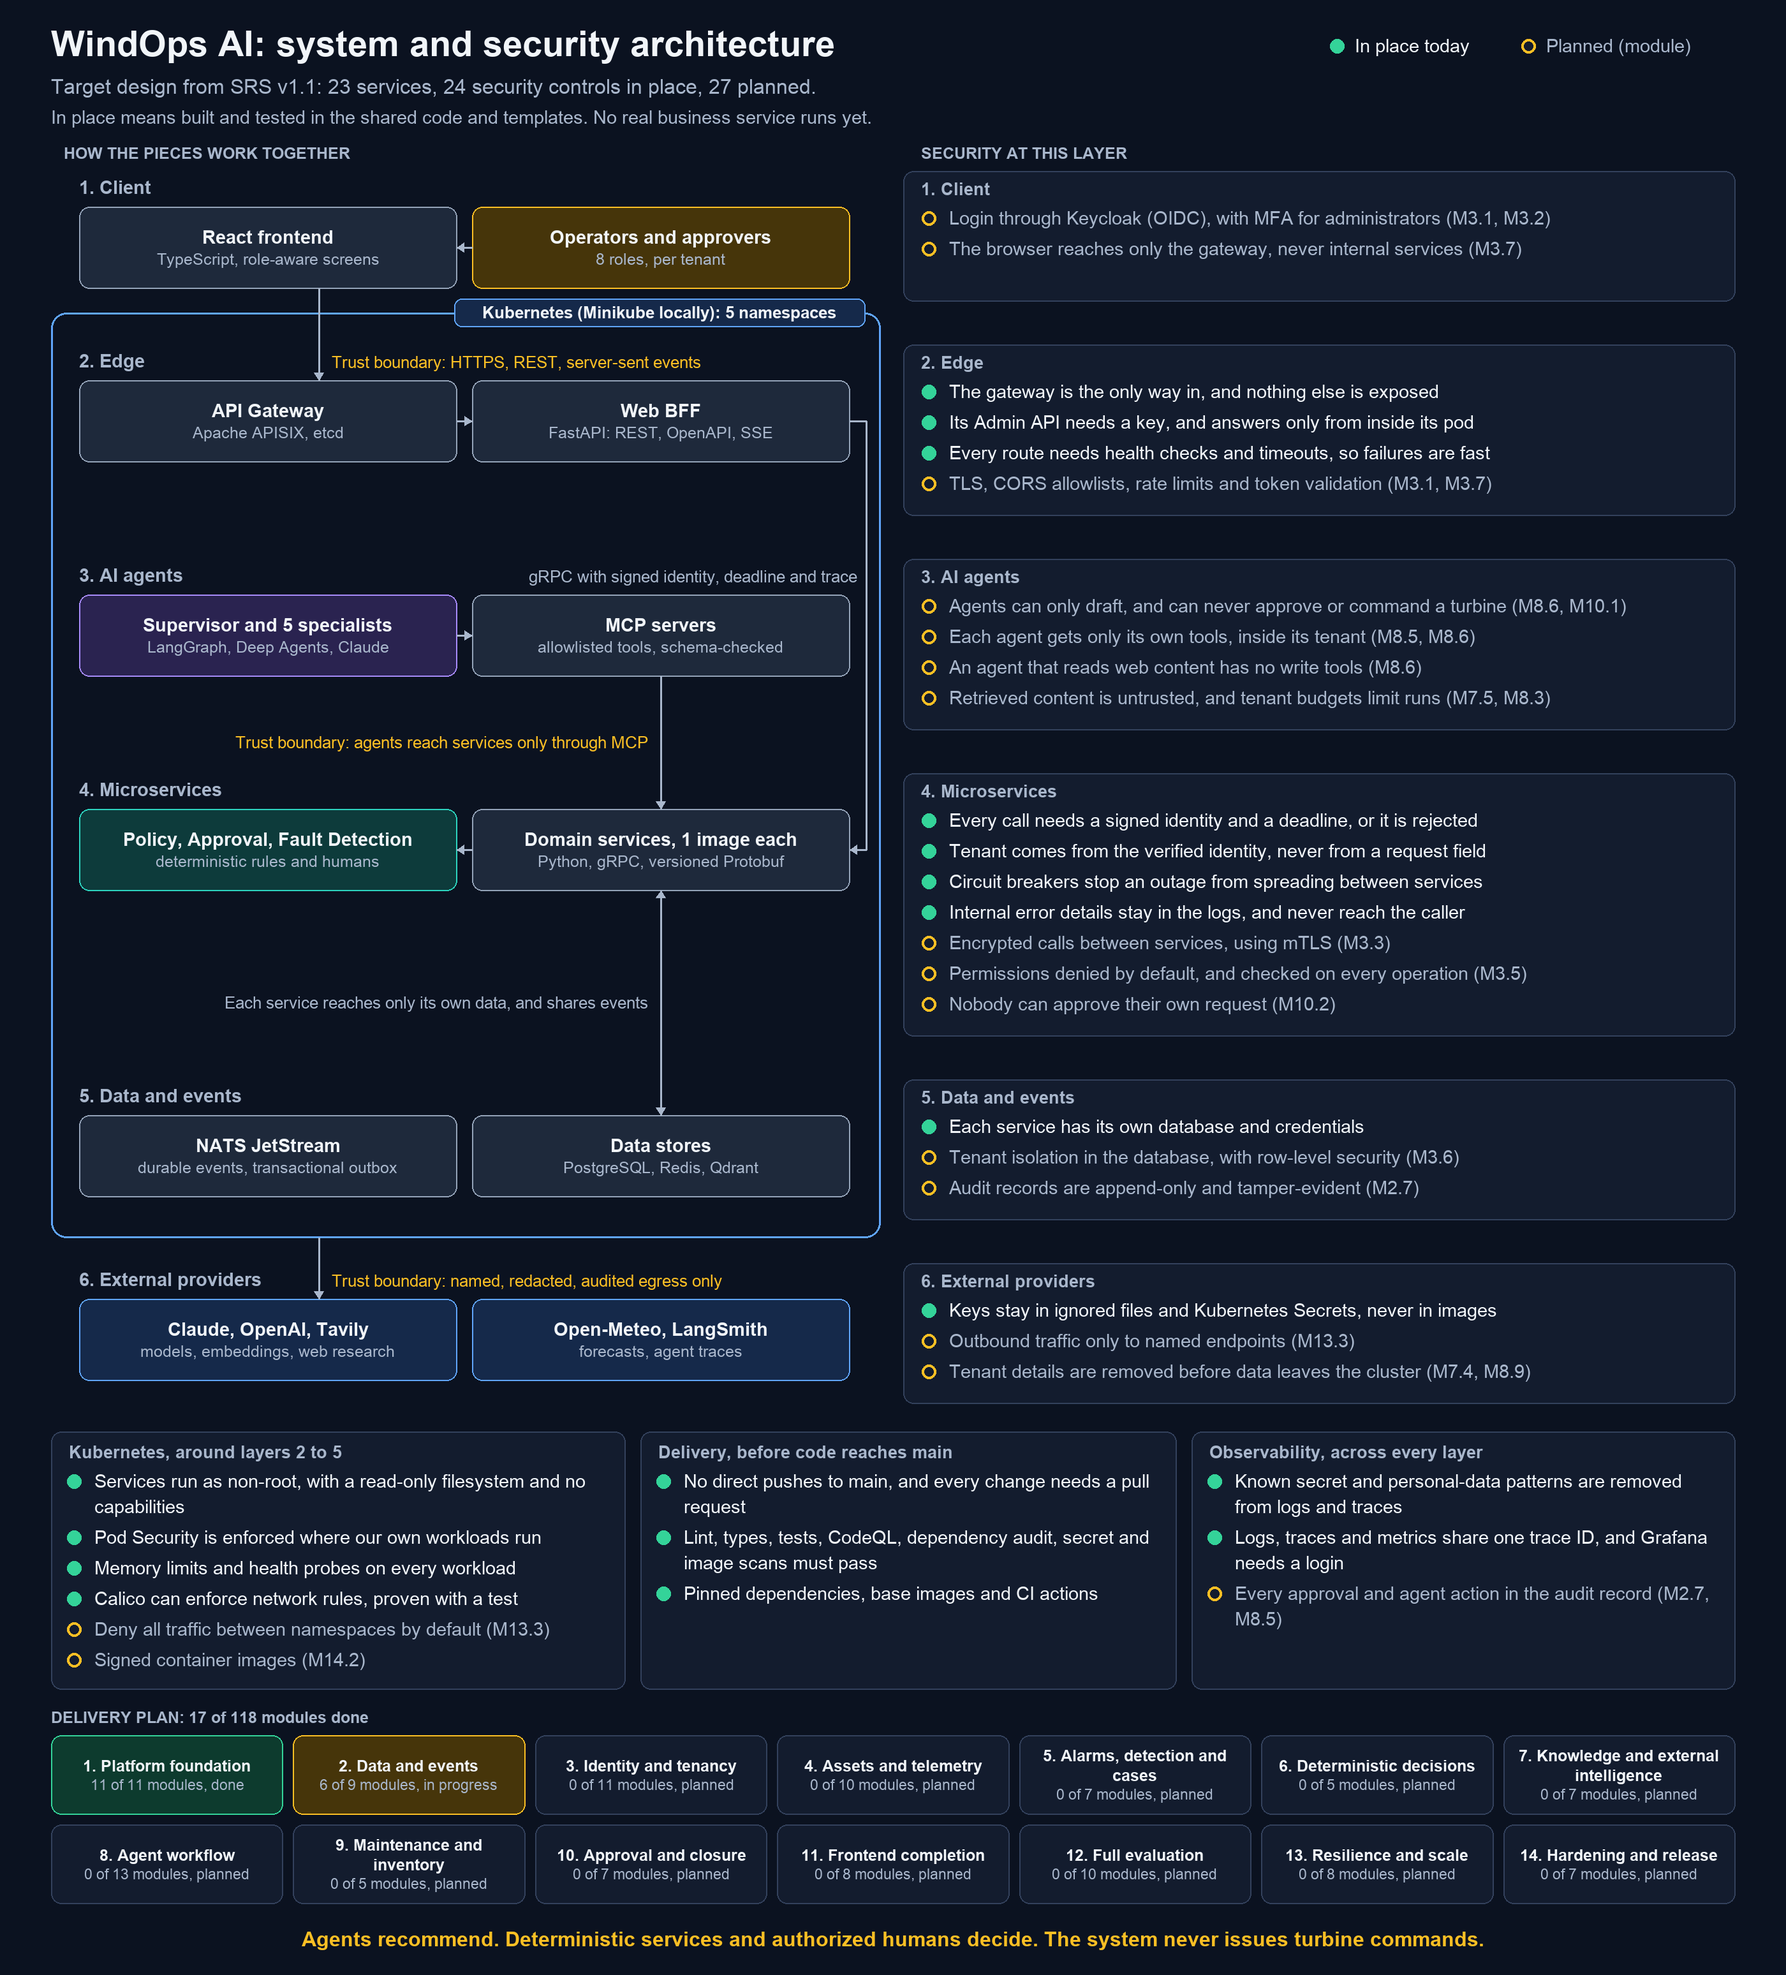
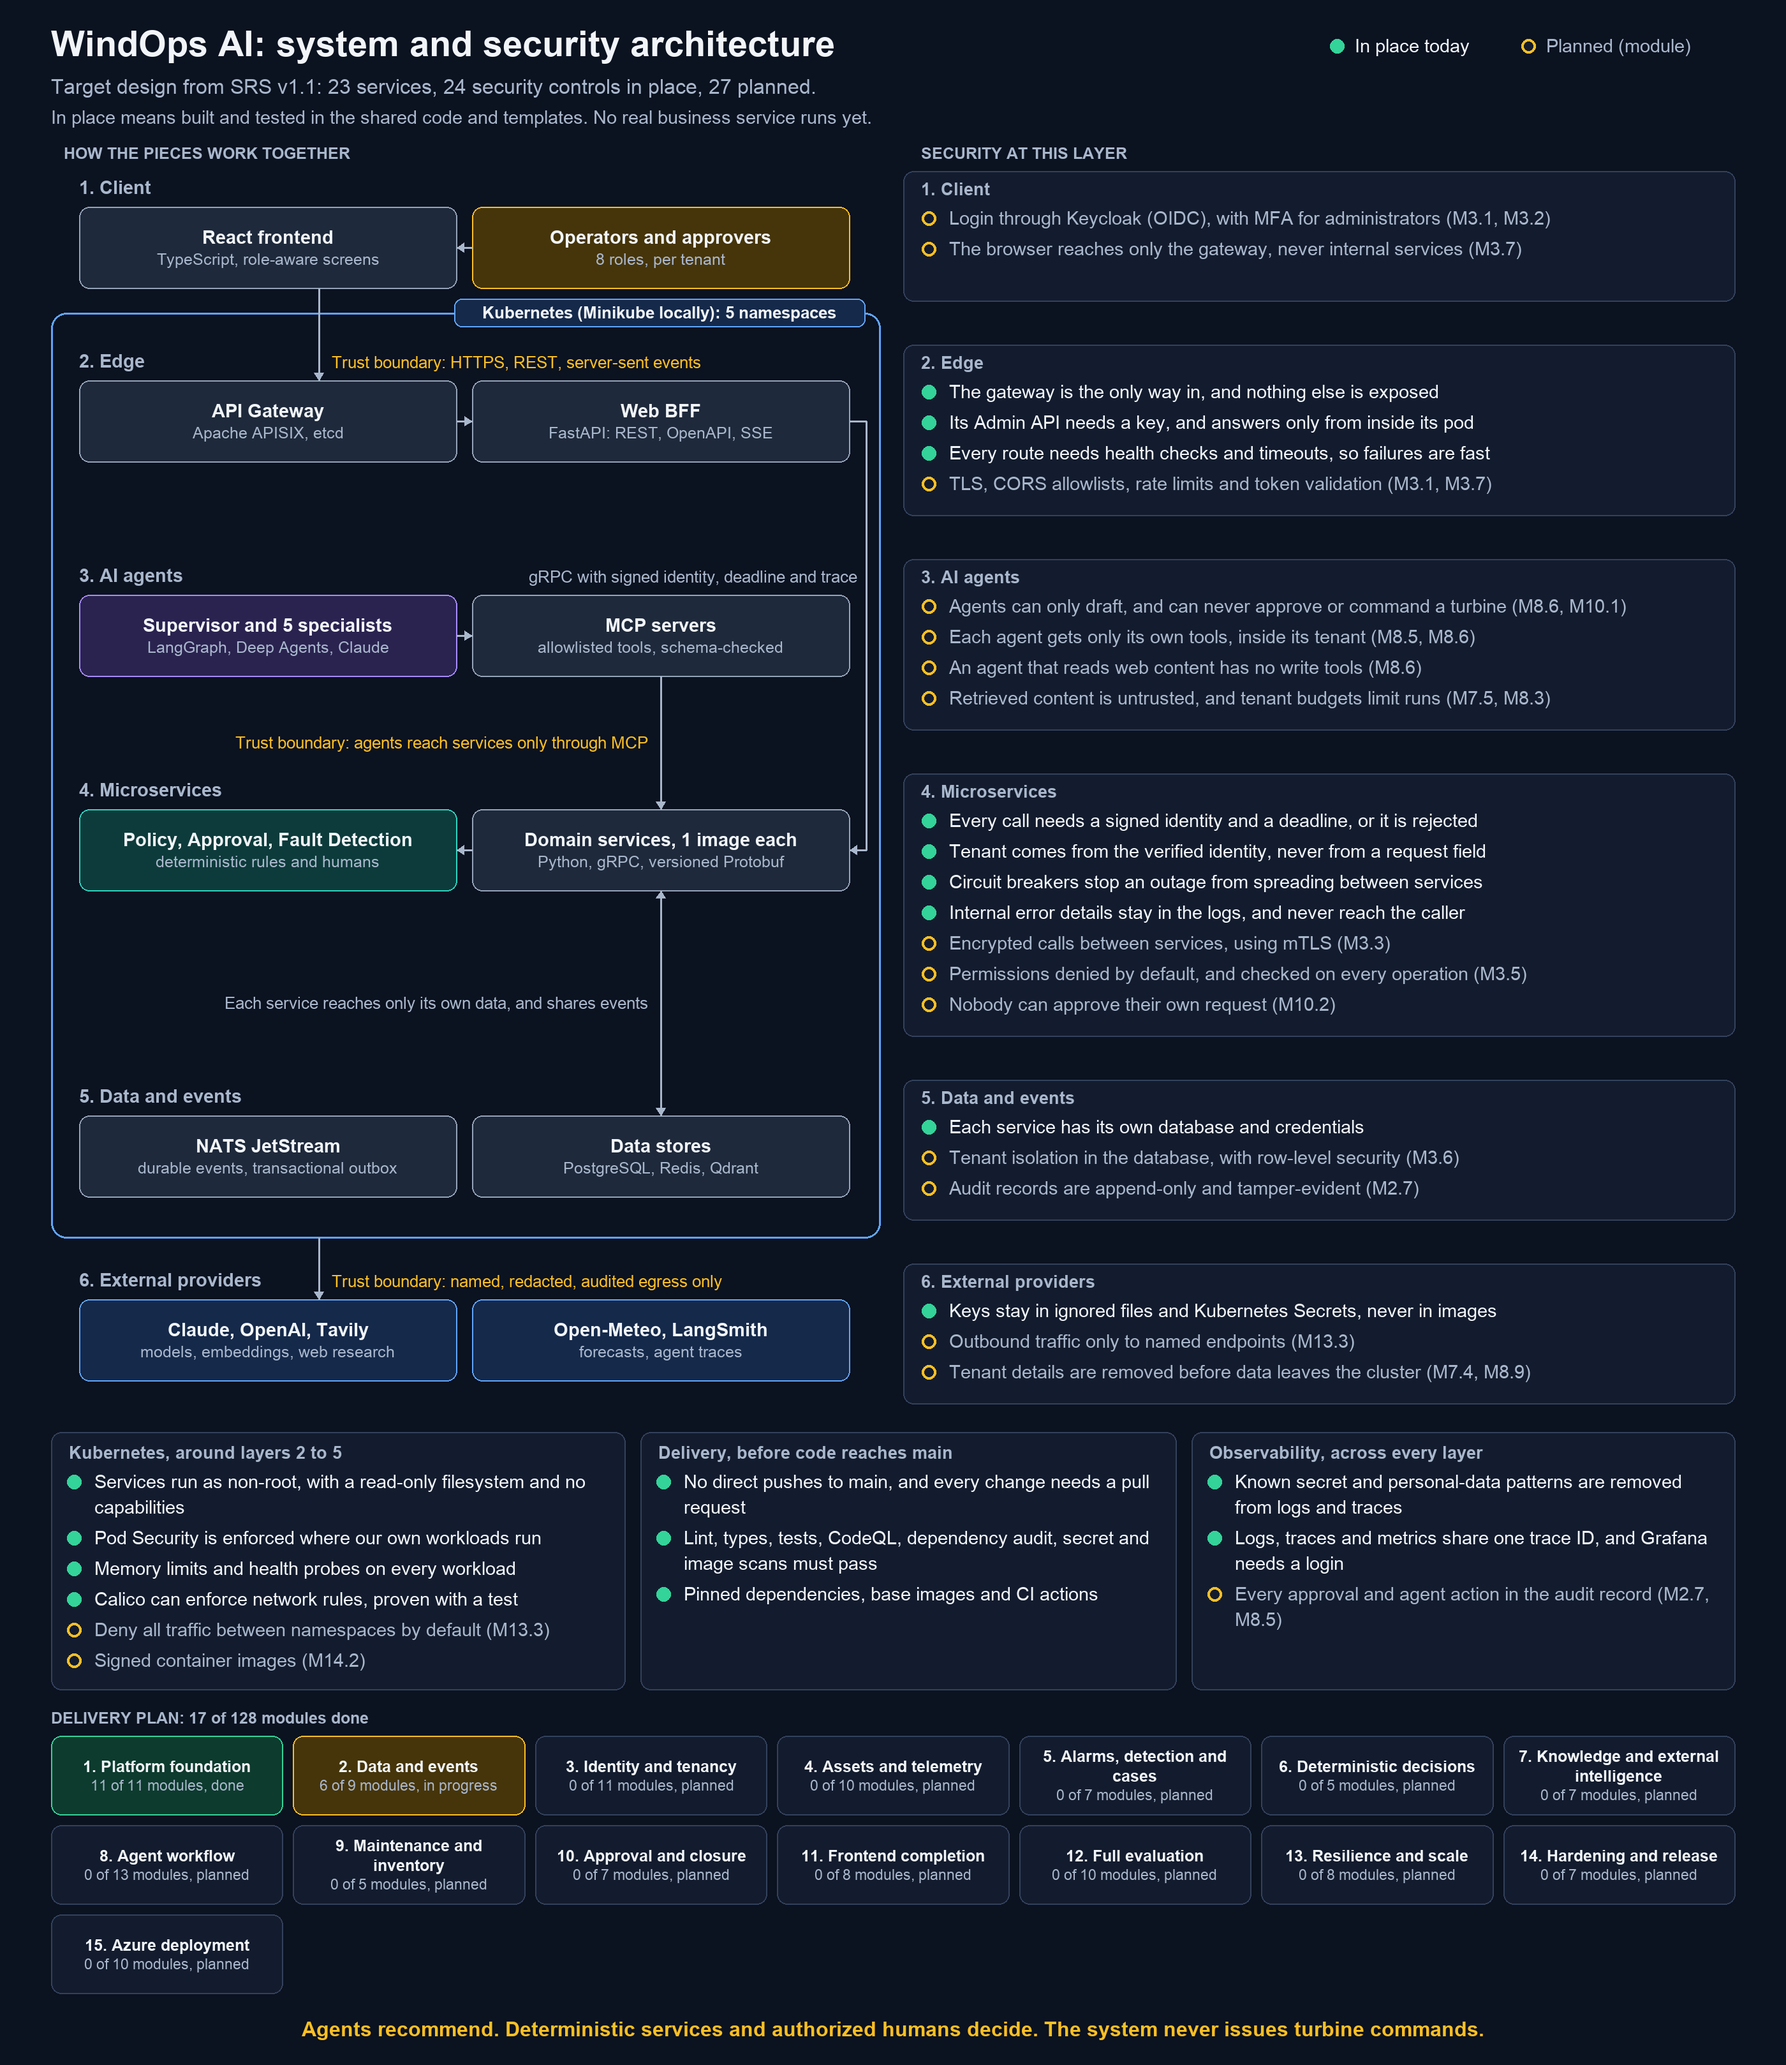
docs(plan): add Azure deployment as the final phase (#25)
The project's owner wants the finished system deployed to Azure, which
the plan did not include. Add Phase 15 with its modules, and record the
choice of services in ADR 0005. Nothing is created in Azure.

Refs: ADR 0005

diff --git a/tests/test_architecture_diagram.py b/tests/test_architecture_diagram.py
@@ -47,7 +47,7 @@ def test_a_control_is_not_shown_as_planned_once_its_modules_are_done() -> None:
 
 def test_roadmap_reads_all_phases_with_the_tracker_totals() -> None:
     phases = read_phase_progress()
-    assert [number for number, _, _, _ in phases] == list(range(1, 15))
+    assert [number for number, _, _, _ in phases] == list(range(1, 16))
     table = dict(re.findall(r"^\| (\d+) \| \[[^\]]+\]\([^)]*\) \| (\d+) \|", TRACKER, re.M))
     for number, _, _, total in phases:
         assert int(table[str(number)]) == total

diff --git a/scripts/generate_readme_visuals.py b/scripts/generate_readme_visuals.py
@@ -645,7 +645,8 @@ def draw_roadmap(c: Canvas, y: float) -> float:
             x0, y0, x0 + width, y0 + height,
             f"{number}. {name}", f"{done} of {count} modules, {state}", TEXT, MUTED, 12.5, 11.5,
         )  # fmt: skip
-    return y + 2 * height + gap
+    rows = math.ceil(len(phases) / per_row)
+    return y + rows * height + (rows - 1) * gap
 
 
 def build_security_layers() -> None:

diff --git a/docs/srs.md b/docs/srs.md
@@ -11,7 +11,7 @@ SRS v1.1 keeps every v1.0 feature, makes gRPC, microservices, containers and cir
 | Project | WindOps AI: agentic wind farm operations and predictive maintenance platform |
 | Version and status | 1.1, baseline for design and implementation |
 | Supersedes | Software Requirements Specification v1.0, 4 November 2026 |
-| Deployment target | Kubernetes on Minikube for development and demonstration, portable to other clusters |
+| Deployment target | Kubernetes on Minikube for development and demonstration, then Azure Kubernetes Service as the final phase ([ADR 0005](adr/0005-azure-deployment-as-the-final-phase.md)) |
 | Readiness claim | Portfolio-grade platform on synthetic data, not a certified industrial control system |
 | Requirement words | "Shall" is mandatory, "should" is recommended, "may" is optional |
 
@@ -34,7 +34,7 @@ SRS v1.1 keeps every v1.0 feature, makes gRPC, microservices, containers and cir
 | Weather safety input had no qualified source | Structured forecast provider added alongside Tavily | 6 |
 | Simulator had no specification | Simulator and ground-truth requirements | 10 |
 | Incomplete RBAC | Role matrix and added permissions | 3 |
-| Phases omitted frontend and notifications | 14 phases covering every feature | 12 |
+| Phases omitted frontend and notifications | 15 phases covering every feature and a cloud deployment | 12 |
 
 ## 2. Introduction, scope and fixed decisions
 
@@ -1027,11 +1027,11 @@ windops-ai/
 
 ## 12. Delivery phases
 
-Delivery runs through 14 phases, ordered by dependency and gated by tests rather than dates. The frontend, logging, tracing and security tests grow in every phase, so nothing critical waits until the end.
+Delivery runs through 15 phases, ordered by dependency and gated by tests rather than dates. The frontend, logging, tracing and security tests grow in every phase, so nothing critical waits until the end.
 
 ![Delivery roadmap in four stages. Platform base covers phases 1 to 3, deterministic core covers phases 4 to 6, agents and action covers phases 7 to 10, and proof and release covers phases 11 to 14. Each stage has an exit condition that the next stage depends on.](assets/srs/delivery-roadmap.svg)
 
-*Delivery roadmap · 14 phases in 4 stages.*
+*Delivery roadmap · phases 1 to 14 in 4 stages. Phase 15 then deploys the finished system to Azure.*
 
 Agents arrive after the deterministic rules exist, so they never need to invent thresholds or calculations.
 
@@ -1051,6 +1051,7 @@ Agents arrive after the deterministic rules exist, so they never need to invent 
 | 12. Full evaluation | Evaluation Service, all 13 dataset families, 100 to 200 scenarios, judges and CI gates | Every Section 10.7 agent-quality gate passes on held-out scenarios |
 | 13. Resilience and scale | Bulkheads, fallback tests, NetworkPolicies, autoscaling, load tests and measured resource figures | All breaker tests pass, services scale independently, and capacity is documented |
 | 14. Hardening and release | Security review, threat model, image signing, backup and restore tests, runbooks and repeatable demo | No critical findings remain, and a clean `make` bootstrap passes the smoke and end-to-end tests |
+| 15. Azure deployment | Azure Kubernetes Service, Container Registry, Key Vault, WAF, managed PostgreSQL, Bicep and a GitHub Actions delivery pipeline | The pipeline deploys the system from a clean subscription, and the smoke and end-to-end tests pass through the WAF |
 
 Implementation should use a service scaffold, so the required tests, Dockerfile, health checks, breaker wiring and manifests are created the same way for all services. Each phase ends with passing tests, updated documents and a working Minikube deployment.
 

diff --git a/docs/phases/README.md b/docs/phases/README.md
@@ -1,7 +1,7 @@
 # Implementation tracker
 
 This is the single record of what has been built and what comes next. It breaks
-the 14 phases in [SRS v1.1 section 12](../srs.md#12-delivery-phases) into modules.
+the 15 phases in [SRS v1.1 section 12](../srs.md#12-delivery-phases) into modules.
 The SRS defines the requirements, and this file tracks progress against them.
 
 **Current position:** Phase 2. Next up is M2.7.
@@ -48,6 +48,7 @@ The SRS defines the requirements, and this file tracks progress against them.
 | 12 | [Full evaluation](#phase-12-full-evaluation) | 10 | Not started |
 | 13 | [Resilience and scale](#phase-13-resilience-and-scale) | 8 | Not started |
 | 14 | [Hardening and release](#phase-14-hardening-and-release) | 7 | Not started |
+| 15 | [Azure deployment](#phase-15-azure-deployment) | 10 | Not started |
 
 ## Optional decisions
 
@@ -220,3 +221,16 @@ The SRS defines the requirements, and this file tracks progress against them.
 - [ ] **M14.5 Repeatable demo:** `make seed-demo`, `make smoke-test` and the remaining SRS 11.4 targets from a clean machine.
 - [ ] **M14.6 Final acceptance:** confirm every SRS 13.1 criterion and SRS 10.7 gate.
 - [ ] **M14.7 Exit gate:** no critical findings remain, and a clean `make` bootstrap passes the smoke and end-to-end tests.
+
+## Phase 15: Azure deployment
+
+- [ ] **M15.1 Azure decisions:** subscription, region, budget with an alert, domain, and refreshed prices and quota ([ADR 0005](../adr/0005-azure-deployment-as-the-final-phase.md)).
+- [ ] **M15.2 Foundation:** resource group, Container Registry and Key Vault in Bicep, with GitHub OIDC login and no stored Azure password.
+- [ ] **M15.3 Image pipeline:** GitHub Actions builds, scans, signs and pushes every image.
+- [ ] **M15.4 AKS cluster:** Azure Kubernetes Service in Bicep, with network policy enforced, and an `azure` overlay with real image tags and storage classes.
+- [ ] **M15.5 Managed PostgreSQL:** per-service databases and logins, private network access, TLS and backups.
+- [ ] **M15.6 Cloud secrets:** Key Vault replaces the local secret files for every workload.
+- [ ] **M15.7 WAF and TLS:** Application Gateway WAF v2 in front of APISIX, with a domain and public TLS.
+- [ ] **M15.8 Delivery pipeline:** migrations, then a rolling deployment, with a manual approval and a rollback path.
+- [ ] **M15.9 Cost and operations:** stop and start commands, cost record and a cloud runbook.
+- [ ] **M15.10 Exit gate:** the pipeline deploys from a clean subscription, and the smoke and end-to-end tests pass through the WAF.

diff --git a/docs/adr/0005-azure-deployment-as-the-final-phase.md b/docs/adr/0005-azure-deployment-as-the-final-phase.md
@@ -1,0 +1,40 @@
+# ADR 0005: Deploy to Azure as the final phase
+
+**Status:** Accepted, 2026-11-05
+
+## Context
+
+SRS v1.1 targets Minikube, and says only that the manifests are portable to other clusters. The project's
+owner also wants to show cloud deployment work, so the finished system needs to run on Azure.
+
+Running a cloud cluster now would cost hundreds of dollars a month, with little real to run on it.
+
+## Decision
+
+- Add Phase 15, after hardening, to deploy the finished system to Azure.
+- Keep Minikube as the working environment until then, and for every earlier exit gate.
+- Use these services, subject to the decisions in M15.1:
+
+| Need | Choice | Why |
+| --- | --- | --- |
+| Kubernetes | Azure Kubernetes Service, with the existing manifests | No separate virtual machines to manage |
+| Images | Azure Container Registry | The pipeline pushes signed images here |
+| Secrets | Azure Key Vault | Replaces the local secret files |
+| Web application firewall | Application Gateway WAF v2, in front of APISIX | APISIX stays the only way into the cluster |
+| PostgreSQL | Azure managed PostgreSQL | Provides the backups and standby option in ADR 0003 |
+| Redis, Qdrant, NATS | Stay in the cluster | Already built and tested, and cheaper |
+| Monitoring | The existing Grafana and Prometheus stack | Already built |
+| Infrastructure code | Bicep, kept in this repository | Azure's own tool, with no state file to protect |
+| Delivery | GitHub Actions with OIDC login and a manual approval | The repository is public, so it stores no Azure password |
+
+Multi-region recovery and high-availability SLAs stay out of scope (SRS 2.4).
+
+## Consequences
+
+- Earlier work should stay portable, and call out anything that would make this phase harder.
+- The system must not rely on Minikube-only behavior, such as local image loading, beyond its overlay.
+- Azure costs real money. M15.1 sets a budget alert before anything is created, and the system can be stopped
+  between demonstrations.
+- Before this phase is planned in detail, prices and available quota must be checked again. On 2026-11-05 a
+  rough estimate was about $670 to $700 a month for a public, hardened deployment running all the time.
+- A cloud deployment is new scope beyond SRS v1.1, recorded here and in SRS section 12.

diff --git a/README.md b/README.md
@@ -46,10 +46,11 @@ control is still shown as planned after its modules are finished.
 | Document | What it covers |
 | --- | --- |
 | [Requirements (SRS v1.1)](docs/srs.md) | Scope, fixed decisions, requirement IDs and acceptance criteria |
-| [Implementation tracker](docs/phases/README.md) | All 14 phases and their modules, with what is finished |
+| [Implementation tracker](docs/phases/README.md) | All 15 phases and their modules, with what is finished |
 | [ADR 0001: Local Minikube profile](docs/adr/0001-local-minikube-profile.md) | Running every workload on a 16 GB laptop |
 | [ADR 0002: Trace storage](docs/adr/0002-trace-storage-and-kube-state-metrics.md) | Adding Tempo and kube-state-metrics |
 | [ADR 0003: PostgreSQL without TimescaleDB](docs/adr/0003-postgresql-without-timescaledb.md) | Telemetry storage, and the shared local and production database designs |
+| [ADR 0005: Azure deployment](docs/adr/0005-azure-deployment-as-the-final-phase.md) | The final phase, and the Azure services it uses |
 | [Service map](docs/service-map.md) | Every service's calls and events, and each failure behavior |
 | [gRPC contracts](docs/grpc-contracts.md) | Versioning, breaking changes and per-call rules |
 | [Observability](docs/observability.md) | Data flow, dashboards and retention by environment |
